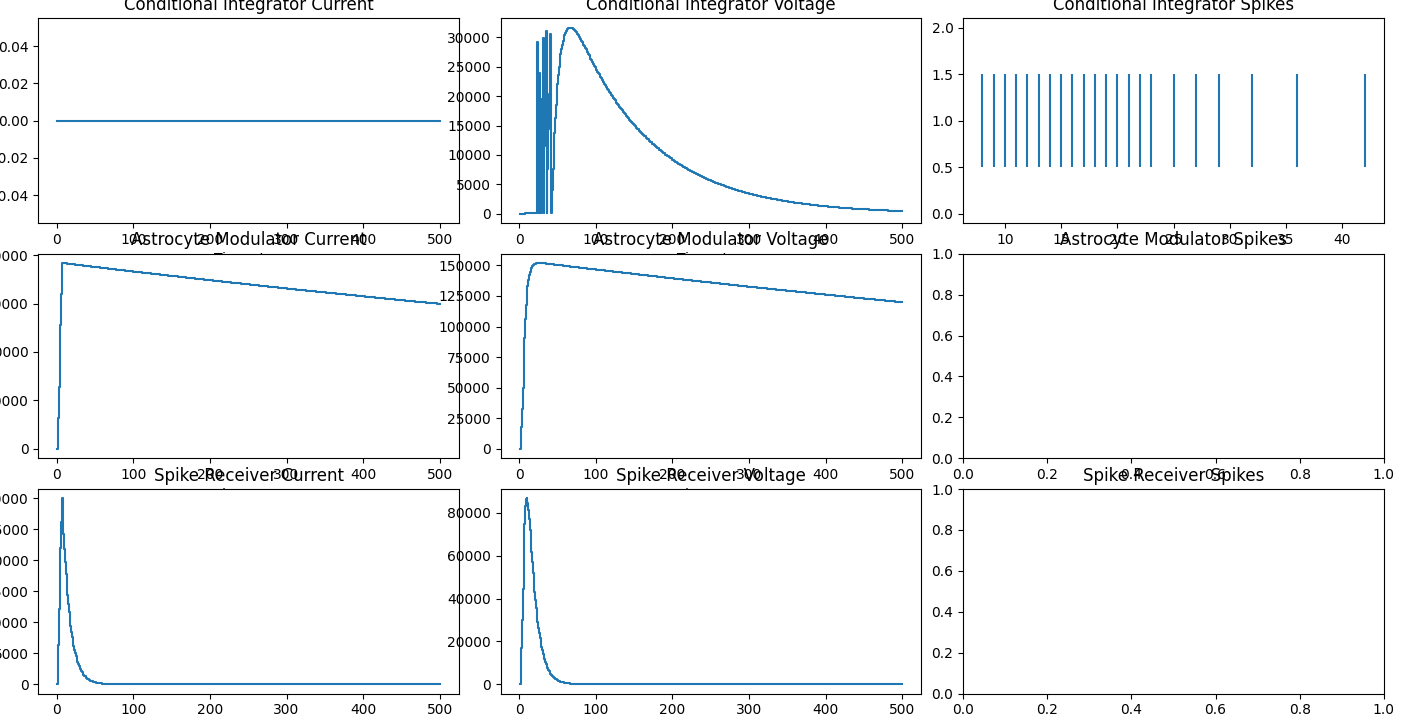
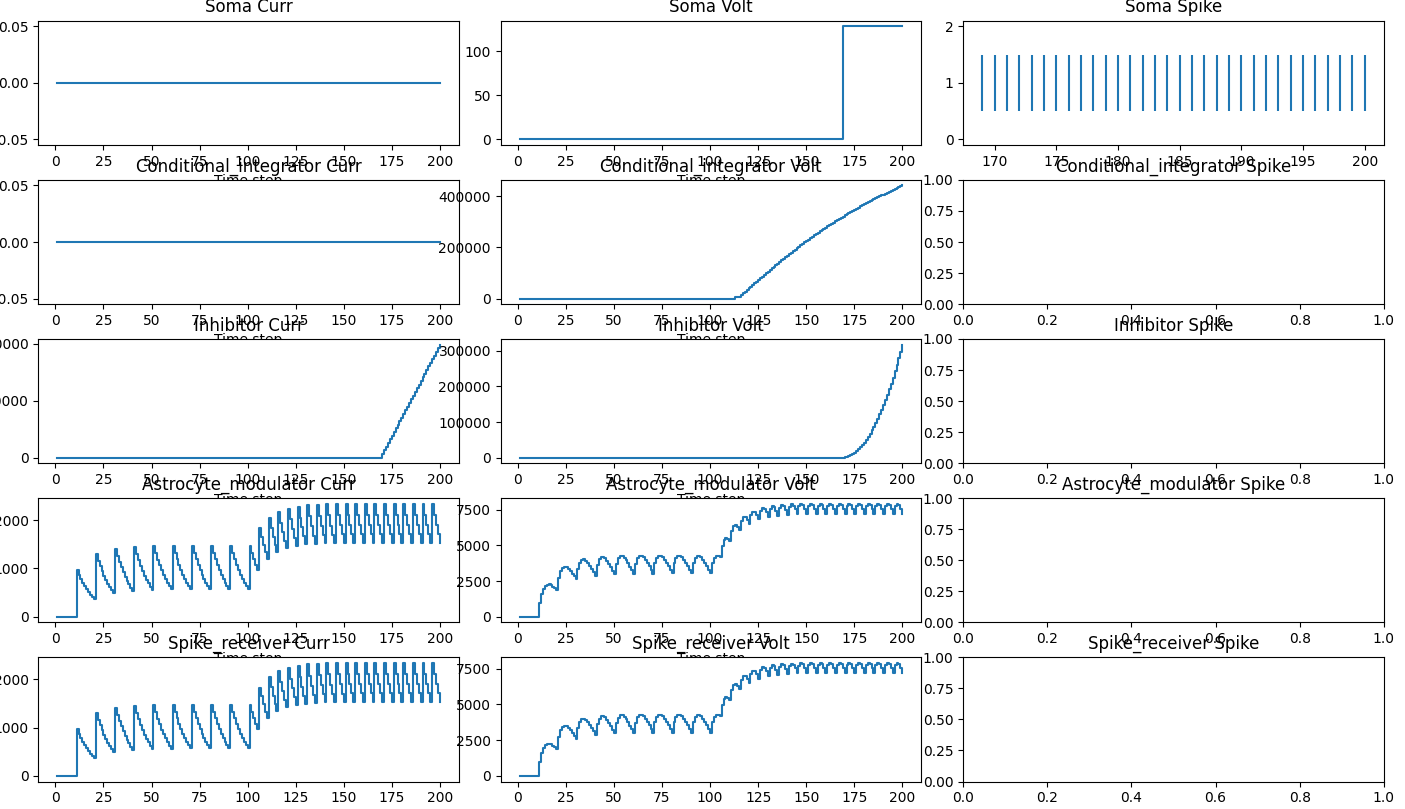
Bursting neuron library works, and it's time for parameter tuning

diff --git a/tutorials/cpg/bursting_neuron.py b/tutorials/cpg/bursting_neuron.py
@@ -1,96 +1,139 @@
+import os
+import atexit
+import matplotlib.pyplot as plt
+import matplotlib as mpl
+from nxsdk.utils.plotutils import plotRaster
 import nxsdk.api.n2a as nx
+from enum import Enum, auto
+import numpy as np 
 
+haveDisplay = "DISPLAY" in os.environ
+if not haveDisplay:
+    mpl.use('Agg')
 
-class BurstingNeuron: 
-    def __init__(self, 
+class BurstingNeuron:
+    def __init__(self,
                  net: nx.NxNet,
-                 srVthMant = 100,
-                 srCurrentDecay = int(1 / 10 * 2 ** 12),
-                 srVoltageDecay = int(1 / 4 * 2 ** 12),
-                 amVthMant = 100,
-                 amCurrentDecay = int(1 / 10 * 2 * 12), 
-                 amVoltageDecay = int(1 / 4 * 2 ** 12),
-                 ciVthMant = 5000,
-                 ciCurrentDecay = int(1 / 10 * 2 ** 12),
-                 ciVoltageDecay = int(1 / 100 * 2 ** 12),
-                 sgVthMant = 5000,
-                 sgCurrentDecay = int(1 / 10 * 2 ** 12),
-                 sgVoltageDecay = int(1 / 100 * 2 ** 12), 
-                 inVthMant = 10000,
-                 inCurrentDecay = 0,
-                 inVoltageDecay = 0,
-                 s_2_in_weight = 10,
-                 in_2_ci_weight = -256,
-                 totalCompartments = 5):
+                 srVthMant=100,
+                 srCurrentDecay=int(1 / 10 * 2 ** 12),
+                 srVoltageDecay=int(1 / 4 * 2 ** 12),
+                 amVthMant=100,
+                 amCurrentDecay=int(1 / 10 * 2 ** 12),
+                 amVoltageDecay=int(1 / 4 * 2 ** 12),
+                 ciVthMant=5000,
+                 ciCurrentDecay=int(1 / 10 * 2 ** 12),
+                 ciVoltageDecay=int(1 / 100 * 2 ** 12),
+                 sgVthMant=5000,
+                 sgCurrentDecay=int(1 / 10 * 2 ** 12),
+                 sgVoltageDecay=int(1 / 100 * 2 ** 12),
+                 inVthMant=5000,
+                 inCurrentDecay=0,
+                 inVoltageDecay=0,
+                 s_2_in_weight=200,
+                 in_2_ci_weight=-200,
+                 totalCompartments=5,
+                 do_probes=True,
+                 debug=False,
+                 num_steps=-1):
         
-        # Construct Internal Properties
-        self.compartments = self.__core()   #Get dictionary of all compartments
+        self.net = net
+        self.srVthMant = srVthMant
+        self.srCurrentDecay = srCurrentDecay
+        self.srVoltageDecay = srVoltageDecay
+        self.amVthMant = amVthMant
+        self.amCurrentDecay = amCurrentDecay
+        self.amVoltageDecay = amVoltageDecay
+        self.ciVthMant = ciVthMant
+        self.ciCurrentDecay = ciCurrentDecay
+        self.ciVoltageDecay = ciVoltageDecay
+        self.sgVthMant = sgVthMant
+        self.sgCurrentDecay = sgCurrentDecay
+        self.sgVoltageDecay = sgVoltageDecay
+        self.inVthMant = inVthMant
+        self.inCurrentDecay = inCurrentDecay
+        self.inVoltageDecay = inVoltageDecay
+        self.s_2_in_weight = s_2_in_weight
+        self.in_2_ci_weight = in_2_ci_weight
+        self.totalCompartments = totalCompartments
+        self.debug = debug
+        self.num_steps = num_steps
 
-    def __core(self): 
+        if self.num_steps <= 0: 
+            raise ValueError("Number of steps must be initialized and greater than 0")
+
+        # Construct Internal Properties
+        self.compartments = self.__core()  # Get dictionary of all compartments
+        self.probes = {}
+
+        # Setup probes if required
+        if do_probes:
+            self.__setup_probes()
+
+    def __core(self):
         """Private function to setup core components of bursting neuron model"""
 
-        #Input Compartment -> transforms input current to voltage (Non-spiking)
+        # Input Compartment -> transforms input current to voltage (Non-spiking)
         spike_receiver_pt = nx.CompartmentPrototype(
             vThMant=self.srVthMant,
             compartmentVoltageDecay=self.srVoltageDecay,
             compartmentCurrentDecay=self.srCurrentDecay,
+            thresholdBehavior=nx.COMPARTMENT_THRESHOLD_MODE.NO_SPIKE_AND_PASS_V_LG_VTH_TO_PARENT,
             functionalState=nx.COMPARTMENT_FUNCTIONAL_STATE.IDLE
         )
-        #Astrocyte Modulator -> modulates input current by integrating the input current (Non-spiking)  
+        #Astrocyte Modulator -> modulates input current by integrating the input current (Non-spiking)
         astrocyte_modulator_pt = nx.CompartmentPrototype(
             vThMant=self.amVthMant,
             compartmentVoltageDecay=self.amVoltageDecay,
-            compartmentCurrentDecay=self.amCurrentDecay, 
+            compartmentCurrentDecay=self.amCurrentDecay,
             thresholdBehavior=nx.COMPARTMENT_THRESHOLD_MODE.NO_SPIKE_AND_PASS_V_LG_VTH_TO_PARENT,
             functionalState=nx.COMPARTMENT_FUNCTIONAL_STATE.IDLE
-        )   
-        #Conditional Integrator -> integrates the voltage from sr only if AM's threshold is met (Non-spiking)
+        )
+        # Conditional Integrator -> integrates the voltage from sr only if AM's threshold is met (Non-spiking)
         conditional_integrator_pt = nx.CompartmentPrototype(
             vThMant=self.ciVthMant,
             compartmentVoltageDecay=self.ciVoltageDecay,
             compartmentCurrentDecay=self.ciCurrentDecay,
             thresholdBehavior=nx.COMPARTMENT_THRESHOLD_MODE.NO_SPIKE_AND_PASS_V_LG_VTH_TO_PARENT,
             compartmentJoinOperation=nx.COMPARTMENT_JOIN_OPERATION.PASS,
-            stackOut = nx.COMPARTMENT_STACK_OUT.PUSH,
             functionalState=nx.COMPARTMENT_FUNCTIONAL_STATE.IDLE
         )
-
-        #Spiking Compartment -> Generates burst of spikes whenever CI is above threshold
+        # Spiking Compartment -> Generates burst of spikes whenever CI is above threshold
         soma_pt = nx.CompartmentPrototype(
             vThMant=self.sgVthMant,
             compartmentVoltageDecay=self.sgVoltageDecay,
             compartmentCurrentDecay=self.sgCurrentDecay,
-            stackIn = nx.COMPARTMENT_STACK_IN.POP_A,
+            thresholdBehavior=nx.COMPARTMENT_THRESHOLD_MODE.SPIKE_AND_RESET,
             functionalState=nx.COMPARTMENT_FUNCTIONAL_STATE.IDLE
-        )   
-
-        #Inhibitor Compartment -> resets the conditional integrator to resting state after {x} spikes (Can be adjusted)
+        )
+        # Inhibitor Compartment -> resets the conditional integrator to resting state after {x} spikes (Can be adjusted)
         inhibitor_pt = nx.CompartmentPrototype(
             vThMant=self.inVthMant,
             compartmentVoltageDecay=self.inVoltageDecay,
             compartmentCurrentDecay=self.inCurrentDecay,
             functionalState=nx.COMPARTMENT_FUNCTIONAL_STATE.IDLE
         )
-        """Create Neuron with NxSDK Neuron API"""
+
+        # Create Neuron with NxSDK Neuron API
         soma_pt.addDendrite(conditional_integrator_pt, nx.COMPARTMENT_JOIN_OPERATION.OR)
         conditional_integrator_pt.addDendrites(astrocyte_modulator_pt, spike_receiver_pt, nx.COMPARTMENT_JOIN_OPERATION.PASS)
 
-        #Create Neuron Prototype be passing cell body compartment (i.e. tree root node)    
+        # Create Neuron Prototype be passing cell body compartment (i.e. tree root node)
         neuronPrototype = nx.NeuronPrototype(soma_pt)
-        neuron = net.createNeuron(neuronPrototype)
+        neuron = self.net.createNeuron(neuronPrototype)
 
-        """Create Inhibitor Compartment"""
-        inhibitor_cx = net.createCompartment(inhibitor_pt)
-        s_2_in_pt = nx.ConnectionPrototype(signMode=nx.SYNAPSE_SIGN_MODE.EXCITATORY, 
-                               weight=self.s_2_in_weight)
-        
-        neuron.soma.connect(inhibitor_cx, s_2_in_pt)
+        # Create Inhibitor Compartment
+        inhibitor_cx = self.net.createCompartment(inhibitor_pt)
+        s_2_in_pt = nx.ConnectionPrototype(signMode=nx.SYNAPSE_SIGN_MODE.EXCITATORY,
+                                           weight=self.s_2_in_weight)
+
+        neuron.soma.connect(inhibitor_cx, prototype=s_2_in_pt)
 
         # Connect back to inhibitor compartment to reset conditional integrator
-        in_2_ci_pt = nx.ConnectionPrototype(signMode=nx.SYNAPSE_SIGN_MODE.INHIBITORY, 
-                               weight=self.in_2_ci_weight)
-        inhibitor_cx.connect(conditional_integrator_pt, in_2_ci_pt)
-        
+        in_2_ci_pt = nx.ConnectionPrototype(signMode=nx.SYNAPSE_SIGN_MODE.INHIBITORY,
+                                            weight=self.in_2_ci_weight)
+        inhibitor_cx.connect(neuron.dendrites[0], prototype=in_2_ci_pt)
+
+        # Return dictionary of compartments
         return {
             'soma': neuron.soma,
             'conditional_integrator': neuron.dendrites[0],
@@ -98,5 +141,81 @@ class BurstingNeuron:
             'astrocyte_modulator': neuron.dendrites[0].dendrites[0],
             'spike_receiver': neuron.dendrites[0].dendrites[1]
         }
-    
-    """TODO: Implement spike stimulus & probe methods"""
+
+    def __setup_probes(self):
+        """Private function to setup probes for compartments"""
+        probe_types = {
+            "curr": nx.ProbeParameter.COMPARTMENT_CURRENT,
+            "volt": nx.ProbeParameter.COMPARTMENT_VOLTAGE,
+            "spike": nx.ProbeParameter.SPIKE
+        }
+
+        for comp_name, comp in self.compartments.items():
+            self.probes[comp_name] = {}
+            for probe_name, probe_param in probe_types.items():
+                self.probes[comp_name][probe_name] = comp.probe(probe_param)[0]
+                if self.debug:
+                    print(f"Probe set up: {comp_name} {probe_name}")
+
+    def __get_input_layer(self):
+        """Private function to get neuron input layer, i.e. spike receiver and astrocyte modulator"""
+        return [self.compartments['spike_receiver'], self.compartments['astrocyte_modulator']]
+        
+
+    def __poisson_distribution(self, rate, num_steps):
+        print("Not implemented yet...")
+        #TODO: Implement this function
+
+    def plot_probes(self):
+        fig = plt.figure(2002, figsize=(35, 25))
+        k = 1
+        for comp_name, probes in self.probes.items():
+            for probe_type, probe in probes.items():
+                if self.debug:
+                    print(f"Plotting {comp_name} {probe_type}, of {probe}, {probe_type}")
+                plt.subplot(len(self.probes), 3, k)
+                probe.plot()
+                plt.title(f'{comp_name.capitalize()} {probe_type.capitalize()}')
+                k += 1
+
+        plt.tight_layout(pad=3.0, w_pad=4.0, h_pad=4.0)
+
+        # Save the plot if no display is available
+        if haveDisplay:
+            plt.show()
+        else:
+            file_name = "probes_plot.png"
+            print(f"No display available. Saving plot to {file_name}")
+            fig.savefig(file_name)
+
+    def add_spike_train(self):
+        """For simulation purposes"""
+        nxSpikeGen = self.net.createSpikeGenProcess(numPorts=1)
+        sGenConn_pt = nx.ConnectionPrototype(signMode=nx.SYNAPSE_SIGN_MODE.EXCITATORY, weight = 15)
+        input_compartments = self.__get_input_layer()
+
+        for comp in input_compartments: 
+            if self.debug:
+                print(comp)
+            nxSpikeGen.connect(comp, prototype=sGenConn_pt)
+
+        # Create window step distribution
+        r1 = 10 
+        r2 = 20 
+        window = self.num_steps // 2 
+        intervals = [window // r1, window // r2]
+
+        spike_times1 = np.arange(0, window - 1, intervals[0])
+        spike_times2 = np.arange(window, self.num_steps, intervals[1])
+        
+        spike_times = np.concatenate((spike_times1, spike_times2))
+        if self.debug:
+            print([spike_times])
+
+        nxSpikeGen.addSpikes([0], [spike_times.tolist()])
+
+        
+        
+        
+
+

diff --git a/tutorials/cpg/main.py b/tutorials/cpg/main.py
@@ -5,65 +5,32 @@ import nxsdk.api.n2a as nx
 from nxsdk.arch.n2a.n2board import N2Board
 from nxsdk.graph.processes.phase_enums import Phase
 
+from bursting_neuron import BurstingNeuron
+
 import numpy as np
 import os
 import matplotlib.pyplot as plt
 import matplotlib as mpl
 
-haveDisplay = "DISPLAY" in os.environ
-if not haveDisplay:
-    mpl.use('Agg')
-
-def plot_probes(u_probes, v_probes, s_probes, compartment_names):
-        fig = plt.figure(2002, figsize=(35, 25))
-        k = 1
-        for i in range(len(u_probes)):
-            plt.subplot(len(u_probes), 3, k)
-            u_probes[i].plot()
-            plt.title(f'{compartment_names[i]} Current')
-            k += 1
-
-            plt.subplot(len(v_probes), 3, k)
-            v_probes[i].plot()
-            plt.title(f'{compartment_names[i]} Voltage')
-            k += 1
-
-            plt.subplot(len(s_probes), 3, k)
-            s_probes[i].plot()
-            plt.title(f'{compartment_names[i]} Spikes')
-            k += 1
-
-        plt.tight_layout(pad=3.0, w_pad=3.0, h_pad=3.0)
-        if haveDisplay:
-            plt.show()
-        else:
-            fileName = "probes_plot.png"
-            print(f"No display available. Saving plot to {fileName}")
-            fig.savefig(fileName)
-
-
-srVthMant = 100
-srCurrentDecay = 800
-srVoltageDecay = 800
-amVthMant = 1562
-amCurrentDecay = 400
-amVoltageDecay = 400
-ciVthMant = 100
-ciCurrentDecay = int(1 / 10 * 2 ** 12)
-ciVoltageDecay = int(1 / 100 * 2 ** 12)
-sgVthMant = 5000
-sgCurrentDecay = int(1 / 10 * 2 ** 12)
-sgVoltageDecay = int(1 / 100 * 2 ** 12)
-inVthMant = 10000
-inCurrentDecay = 0
-inVoltageDecay = 0
-
+"""Global Params"""
+NUMSTEPS = 200
 
 if __name__ == "__main__":
 
     net = nx.NxNet()
     # get network class
 
+    burst_neuron1 = BurstingNeuron(net, debug=False, num_steps=NUMSTEPS)
+
+    burst_neuron1.add_spike_train()
+
+    net.run(NUMSTEPS)
+    net.disconnect()
+
+    burst_neuron1.plot_probes()
+
+
+    """
     # Input Compartment -> transforms input current to voltage (Non-spiking)
     spike_receiver_pt = nx.CompartmentPrototype(
         vThMant=srVthMant,
@@ -149,3 +116,4 @@ if __name__ == "__main__":
     net.disconnect()
 
     plot_probes(u_probes, v_probes, s_probes, compartment_names)
+    """
